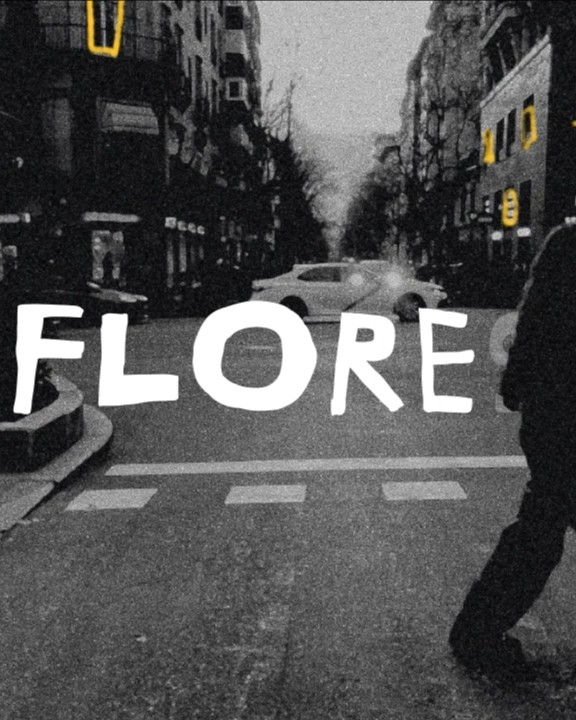
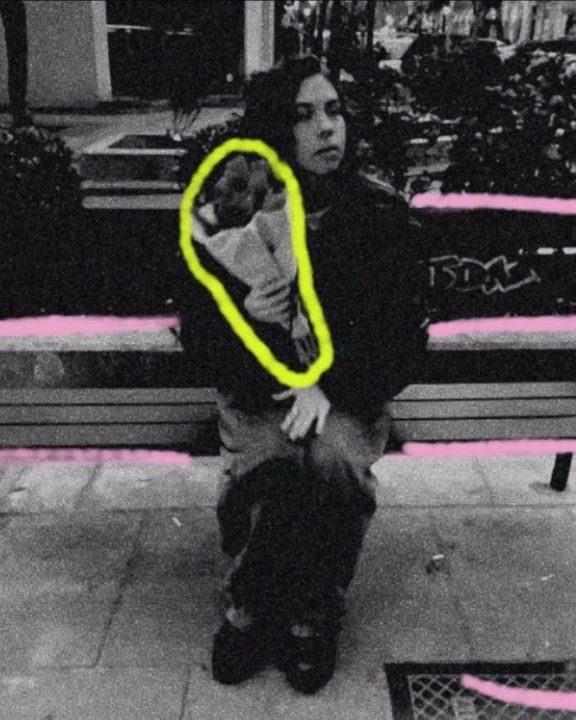
Portadas: Flores con la chica y el ramo, Sex & The City centrada

diff --git a/lab.html b/lab.html
@@ -22,7 +22,7 @@
   <link rel="preconnect" href="https://freight.cargo.site">
   <link rel="stylesheet" href="https://unpkg.com/lenis@1.1.13/dist/lenis.css">
   <!-- ?v= obliga al navegador a descargar la versión nueva cuando cambia (súbelo en cada cambio) -->
-  <link rel="stylesheet" href="css/style.css?v=2026111303">
+  <link rel="stylesheet" href="css/style.css?v=2026111304">
 
   <!-- Tema: claro por defecto, o el que se haya elegido antes -->
   <script>
@@ -56,15 +56,15 @@
   <!-- ============ BARRA SUPERIOR ============ -->
   <header class="topbar">
     <div class="topbar__side">
-      <a class="logo" href="index.html?v=2026111303" aria-label="Ayleeeeta, volver al inicio">
+      <a class="logo" href="index.html?v=2026111304" aria-label="Ayleeeeta, volver al inicio">
         <span>A</span><span>y</span><span>l</span><span class="e">e</span><span class="e e-extra">e</span><span class="e e-extra">e</span><span class="e e-extra">e</span><span>t</span><span>a</span>
       </a>
     </div>
     <nav class="topnav tiny" aria-label="Páginas">
-      <a href="index.html?v=2026111303">Proyectos</a>
-      <a href="sobre-mi.html?v=2026111303">Sobre mí</a>
-      <a href="lab.html?v=2026111303" class="is-active" aria-current="page">Archivo</a>
-      <a href="index.html?v=2026111303#contacto">Contacto</a>
+      <a href="index.html?v=2026111304">Proyectos</a>
+      <a href="sobre-mi.html?v=2026111304">Sobre mí</a>
+      <a href="lab.html?v=2026111304" class="is-active" aria-current="page">Archivo</a>
+      <a href="index.html?v=2026111304#contacto">Contacto</a>
     </nav>
     <div class="topbar__right tiny" data-cursor-hide>
       <button class="round-btn" id="sound-toggle" type="button" aria-label="Sonido (próximamente)" aria-pressed="false">
@@ -80,10 +80,10 @@
   <!-- ============ MENÚ EN PASTILLA (móvil) ============ -->
   <nav class="pill" aria-label="Páginas" style="--i: 2">
     <span class="pill__indicator" aria-hidden="true"></span>
-    <a href="index.html?v=2026111303" class="pill__link">Proyectos</a>
-    <a href="sobre-mi.html?v=2026111303" class="pill__link">Sobre mí</a>
-    <a href="lab.html?v=2026111303" class="pill__link is-active">Archivo</a>
-    <a href="index.html?v=2026111303#contacto" class="pill__link">Contacto</a>
+    <a href="index.html?v=2026111304" class="pill__link">Proyectos</a>
+    <a href="sobre-mi.html?v=2026111304" class="pill__link">Sobre mí</a>
+    <a href="lab.html?v=2026111304" class="pill__link is-active">Archivo</a>
+    <a href="index.html?v=2026111304#contacto" class="pill__link">Contacto</a>
   </nav>
 
   <main class="lab-page">
@@ -106,8 +106,8 @@
   <script src="https://cdn.jsdelivr.net/npm/gsap@3.13.0/dist/SplitText.min.js"></script>
   <script src="https://unpkg.com/lenis@1.1.13/dist/lenis.min.js"></script>
 
-  <script src="js/data.js?v=2026111303"></script>
-  <script src="js/lab-data.js?v=2026111303"></script>
-  <script src="js/main.js?v=2026111303"></script>
+  <script src="js/data.js?v=2026111304"></script>
+  <script src="js/lab-data.js?v=2026111304"></script>
+  <script src="js/main.js?v=2026111304"></script>
 </body>
 </html>

diff --git a/index.html b/index.html
@@ -22,7 +22,7 @@
   <link rel="preconnect" href="https://freight.cargo.site">
   <link rel="stylesheet" href="https://unpkg.com/lenis@1.1.13/dist/lenis.css">
   <!-- ?v= obliga al navegador a descargar la versión nueva cuando cambia (súbelo en cada cambio) -->
-  <link rel="stylesheet" href="css/style.css?v=2026111303">
+  <link rel="stylesheet" href="css/style.css?v=2026111304">
 
   <!-- Tema: claro por defecto, o el que se haya elegido antes -->
   <script>
@@ -56,14 +56,14 @@
   <!-- ============ BARRA SUPERIOR ============ -->
   <header class="topbar">
     <div class="topbar__side">
-      <a class="logo" href="index.html?v=2026111303" aria-label="Ayleeeeta, volver al inicio">
+      <a class="logo" href="index.html?v=2026111304" aria-label="Ayleeeeta, volver al inicio">
         <span>A</span><span>y</span><span>l</span><span class="e">e</span><span class="e e-extra">e</span><span class="e e-extra">e</span><span class="e e-extra">e</span><span>t</span><span>a</span>
       </a>
     </div>
     <nav class="topnav tiny" aria-label="Páginas">
-      <a href="index.html?v=2026111303" class="is-active" aria-current="page">Proyectos</a>
-      <a href="sobre-mi.html?v=2026111303">Sobre mí</a>
-      <a href="lab.html?v=2026111303">Archivo</a>
+      <a href="index.html?v=2026111304" class="is-active" aria-current="page">Proyectos</a>
+      <a href="sobre-mi.html?v=2026111304">Sobre mí</a>
+      <a href="lab.html?v=2026111304">Archivo</a>
       <a href="#contacto">Contacto</a>
     </nav>
     <div class="topbar__right tiny" data-cursor-hide>
@@ -80,9 +80,9 @@
   <!-- ============ MENÚ EN PASTILLA (móvil) ============ -->
   <nav class="pill" aria-label="Páginas" style="--i: 0">
     <span class="pill__indicator" aria-hidden="true"></span>
-    <a href="index.html?v=2026111303" class="pill__link is-active">Proyectos</a>
-    <a href="sobre-mi.html?v=2026111303" class="pill__link">Sobre mí</a>
-    <a href="lab.html?v=2026111303" class="pill__link">Archivo</a>
+    <a href="index.html?v=2026111304" class="pill__link is-active">Proyectos</a>
+    <a href="sobre-mi.html?v=2026111304" class="pill__link">Sobre mí</a>
+    <a href="lab.html?v=2026111304" class="pill__link">Archivo</a>
     <a href="#contacto" class="pill__link">Contacto</a>
   </nav>
 
@@ -190,7 +190,7 @@
   <script src="https://unpkg.com/lenis@1.1.13/dist/lenis.min.js"></script>
   <script src="https://cdnjs.cloudflare.com/ajax/libs/matter-js/0.19.0/matter.min.js"></script>
 
-  <script src="js/data.js?v=2026111303"></script>
-  <script src="js/main.js?v=2026111303"></script>
+  <script src="js/data.js?v=2026111304"></script>
+  <script src="js/main.js?v=2026111304"></script>
 </body>
 </html>

diff --git a/sobre-mi.html b/sobre-mi.html
@@ -22,7 +22,7 @@
   <link rel="preconnect" href="https://freight.cargo.site">
   <link rel="stylesheet" href="https://unpkg.com/lenis@1.1.13/dist/lenis.css">
   <!-- ?v= obliga al navegador a descargar la versión nueva cuando cambia (súbelo en cada cambio) -->
-  <link rel="stylesheet" href="css/style.css?v=2026111303">
+  <link rel="stylesheet" href="css/style.css?v=2026111304">
 
   <!-- Tema: claro por defecto, o el que se haya elegido antes -->
   <script>
@@ -56,14 +56,14 @@
   <!-- ============ BARRA SUPERIOR ============ -->
   <header class="topbar">
     <div class="topbar__side">
-      <a class="logo" href="index.html?v=2026111303" aria-label="Ayleeeeta, volver al inicio">
+      <a class="logo" href="index.html?v=2026111304" aria-label="Ayleeeeta, volver al inicio">
         <span>A</span><span>y</span><span>l</span><span class="e">e</span><span class="e e-extra">e</span><span class="e e-extra">e</span><span class="e e-extra">e</span><span>t</span><span>a</span>
       </a>
     </div>
     <nav class="topnav tiny" aria-label="Páginas">
-      <a href="index.html?v=2026111303">Proyectos</a>
-      <a href="sobre-mi.html?v=2026111303" class="is-active" aria-current="page">Sobre mí</a>
-      <a href="lab.html?v=2026111303">Archivo</a>
+      <a href="index.html?v=2026111304">Proyectos</a>
+      <a href="sobre-mi.html?v=2026111304" class="is-active" aria-current="page">Sobre mí</a>
+      <a href="lab.html?v=2026111304">Archivo</a>
       <a href="#contacto">Contacto</a>
     </nav>
     <div class="topbar__right tiny" data-cursor-hide>
@@ -80,9 +80,9 @@
   <!-- ============ MENÚ EN PASTILLA (móvil) ============ -->
   <nav class="pill" aria-label="Páginas" style="--i: 1">
     <span class="pill__indicator" aria-hidden="true"></span>
-    <a href="index.html?v=2026111303" class="pill__link">Proyectos</a>
-    <a href="sobre-mi.html?v=2026111303" class="pill__link is-active">Sobre mí</a>
-    <a href="lab.html?v=2026111303" class="pill__link">Archivo</a>
+    <a href="index.html?v=2026111304" class="pill__link">Proyectos</a>
+    <a href="sobre-mi.html?v=2026111304" class="pill__link is-active">Sobre mí</a>
+    <a href="lab.html?v=2026111304" class="pill__link">Archivo</a>
     <a href="#contacto" class="pill__link">Contacto</a>
   </nav>
 
@@ -151,7 +151,7 @@
   <script src="https://cdn.jsdelivr.net/npm/gsap@3.13.0/dist/SplitText.min.js"></script>
   <script src="https://unpkg.com/lenis@1.1.13/dist/lenis.min.js"></script>
 
-  <script src="js/data.js?v=2026111303"></script>
-  <script src="js/main.js?v=2026111303"></script>
+  <script src="js/data.js?v=2026111304"></script>
+  <script src="js/main.js?v=2026111304"></script>
 </body>
 </html>

diff --git a/js/data.js b/js/data.js
@@ -163,6 +163,7 @@ const PROJECTS = [
     // En la portada se ve esta foto (205F152C…-3) y no el vídeo
     cardVideo: false,
     poster: img('assets/img/sex-and-the-city/frame-2.png', 1536, 1024),
+    card: img('assets/img/sex-and-the-city/portada.jpg', 720, 900), // recorte centrado en la chica
     blocks: [
       {
         text: [

diff --git a/README.md b/README.md
@@ -66,7 +66,7 @@ El botón "Descargar CV" de Sobre mí descarga `assets/cv/CV_AylaCano.pdf`. Se g
 
 ## Si no ves los cambios online
 
-El navegador guarda copias de la web. Los archivos y los enlaces entre páginas llevan `?v=2026111303`: cada vez que subas cambios, busca y reemplaza ese número por uno nuevo en las 3 páginas (`index.html`, `lab.html`, `sobre-mi.html`) y todo el mundo verá la versión nueva. Para comprobarlo tú, recarga con **Cmd + Shift + R**.
+El navegador guarda copias de la web. Los archivos y los enlaces entre páginas llevan `?v=2026111304`: cada vez que subas cambios, busca y reemplaza ese número por uno nuevo en las 3 páginas (`index.html`, `lab.html`, `sobre-mi.html`) y todo el mundo verá la versión nueva. Para comprobarlo tú, recarga con **Cmd + Shift + R**.
 
 ## Publicar en GitHub Pages
 
